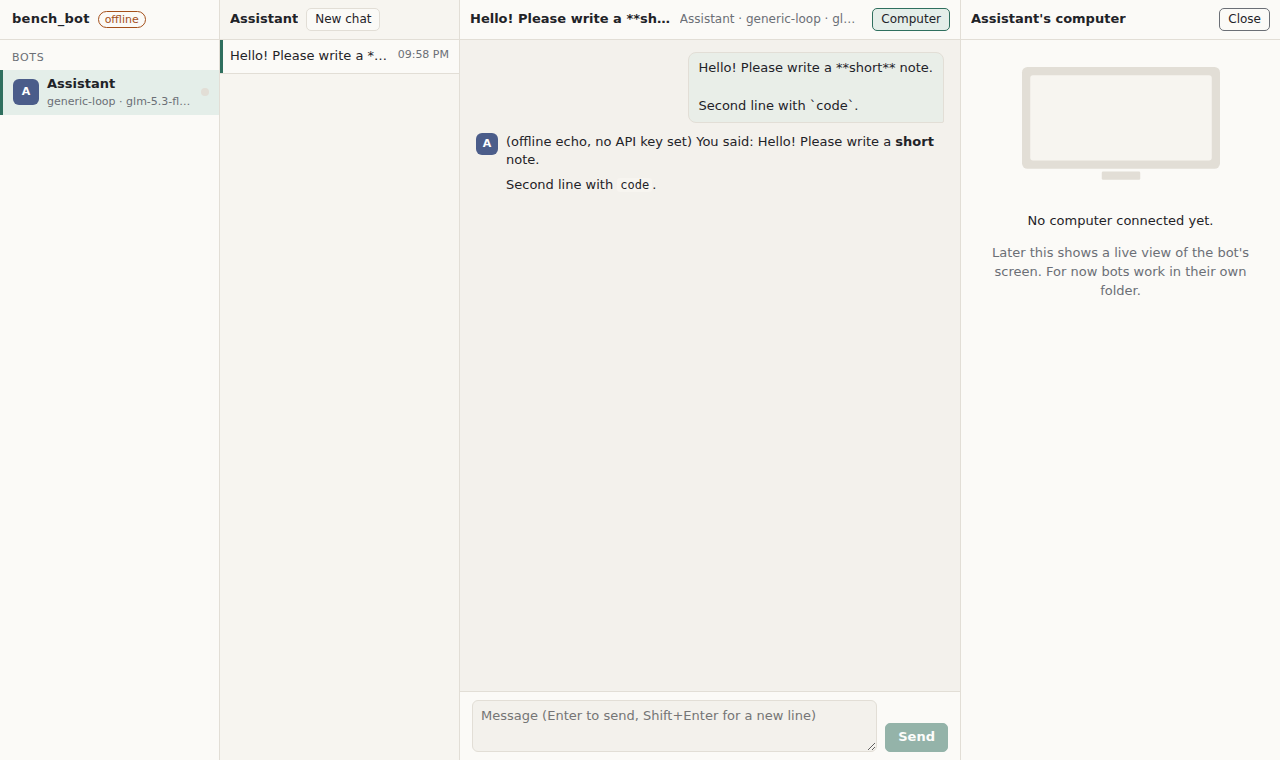
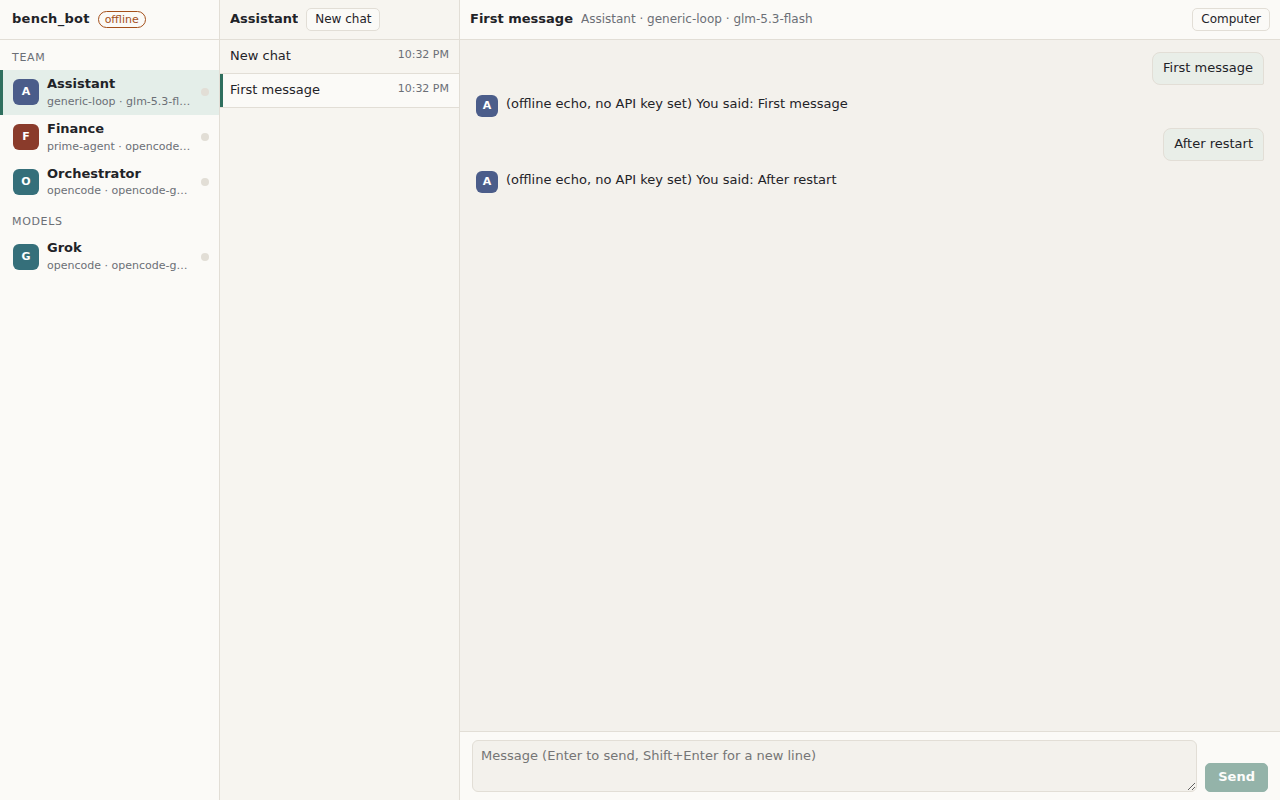
fix: dropped waiting messages no longer look busy forever
Found in browser testing: Stop on a message still waiting in line dropped it
silently, so the chat kept showing 'working…'. The runner now notes
'Stopped before it started' (also when the app closes with messages
waiting), and the window shows 'working' only while the bot is busy or the
message was just sent.

Claude-Session: https://claude.ai/code/session_01NZwCEZ7cDCnfuLbEbEkFBg

diff --git a/apps/api/src/runner.ts b/apps/api/src/runner.ts
@@ -72,9 +72,7 @@ export class BotRunner implements QueueService {
   async abortThread(threadId: string): Promise<void> {
     for (const [botId, queue] of this.#queues) {
       const kept = queue.filter((d) => d.threadId !== threadId);
-      for (const dropped of queue.filter((d) => d.threadId === threadId)) {
-        this.#settle(dropped.id, { runId: "", reason: "aborted", text: "" });
-      }
+      for (const dropped of queue.filter((d) => d.threadId === threadId)) await this.#drop(dropped);
       this.#queues.set(botId, kept);
     }
     const running = [...this.#active.values()].filter((a) => a.delivery.threadId === threadId);
@@ -110,8 +108,7 @@ export class BotRunner implements QueueService {
   /** Stops every running harness (app shutdown). */
   async abortAll(): Promise<void> {
     for (const queue of this.#queues.values()) {
-      for (const d of queue.splice(0))
-        this.#settle(d.id, { runId: "", reason: "aborted", text: "" });
+      for (const d of queue.splice(0)) await this.#drop(d);
     }
     await Promise.all([...this.#active.values()].map((a) => a.harness?.abort()));
   }
@@ -137,6 +134,21 @@ export class BotRunner implements QueueService {
       this.#waiters.set(deliveryId, waiter);
     }
     return waiter;
+  }
+
+  /**
+   * A waiting message that will not run: tell the chat (so it does not look busy forever) and
+   * anyone waiting for it.
+   */
+  async #drop(delivery: Delivery): Promise<void> {
+    const runId = `run_dropped_${delivery.id}`;
+    const note = async (event: BotEvent) =>
+      this.#deps.session
+        .append(delivery.threadId, { kind: "event", runId, event })
+        .catch(() => undefined);
+    await note({ type: "error", message: "Stopped before it started." });
+    await note({ type: "finish", reason: "aborted" });
+    this.#settle(delivery.id, { runId: "", reason: "aborted", text: "" });
   }
 
   #settle(deliveryId: string, outcome: RunOutcome): void {

diff --git a/apps/web/src/components/Conversation.tsx b/apps/web/src/components/Conversation.tsx
@@ -22,8 +22,15 @@ export function Conversation(props: {
 }) {
   const items = buildTimeline(props.entries);
   const lastTurn = [...items].reverse().find((i) => i.kind === "turn");
-  const lastIsUser = items.at(-1)?.kind === "user";
-  const working = (lastTurn?.kind === "turn" && lastTurn.finish === null) || lastIsUser;
+  const last = items.at(-1);
+  // A message waits for an answer while the bot is busy or it was only just sent; an old
+  // unanswered message (e.g. dropped by a crash) must not look busy forever.
+  const waitingForAnswer =
+    last?.kind === "user" &&
+    (props.bot?.status.running ||
+      (props.bot?.status.queued ?? 0) > 0 ||
+      Date.now() - Date.parse(last.at) < 15_000);
+  const working = (lastTurn?.kind === "turn" && lastTurn.finish === null) || !!waitingForAnswer;
   const scroller = useRef<HTMLDivElement>(null);
 
   // biome-ignore lint/correctness/useExhaustiveDependencies: scroll whenever new entries arrive

diff --git a/apps/api/src/runner.test.ts b/apps/api/src/runner.test.ts
@@ -174,6 +174,16 @@ describe("BotRunner", () => {
     await runner.abortThread(t.id);
     expect(await runner.whenDone("d_running")).toMatchObject({ reason: "aborted" });
     expect(await runner.whenDone("d_queued")).toEqual({ runId: "", reason: "aborted", text: "" });
+    // The dropped message gets a visible note, so the chat does not look busy forever.
+    const entries = await session.read(t.id);
+    expect(
+      entries
+        .filter((e) => e.kind === "event" && e.runId === "run_dropped_d_queued")
+        .map((e) => e.kind === "event" && e.event),
+    ).toEqual([
+      { type: "error", message: "Stopped before it started." },
+      { type: "finish", reason: "aborted" },
+    ]);
     expect(runs.listForThread(t.id).map((r) => r.status)).toEqual(["aborted"]);
   });
 
